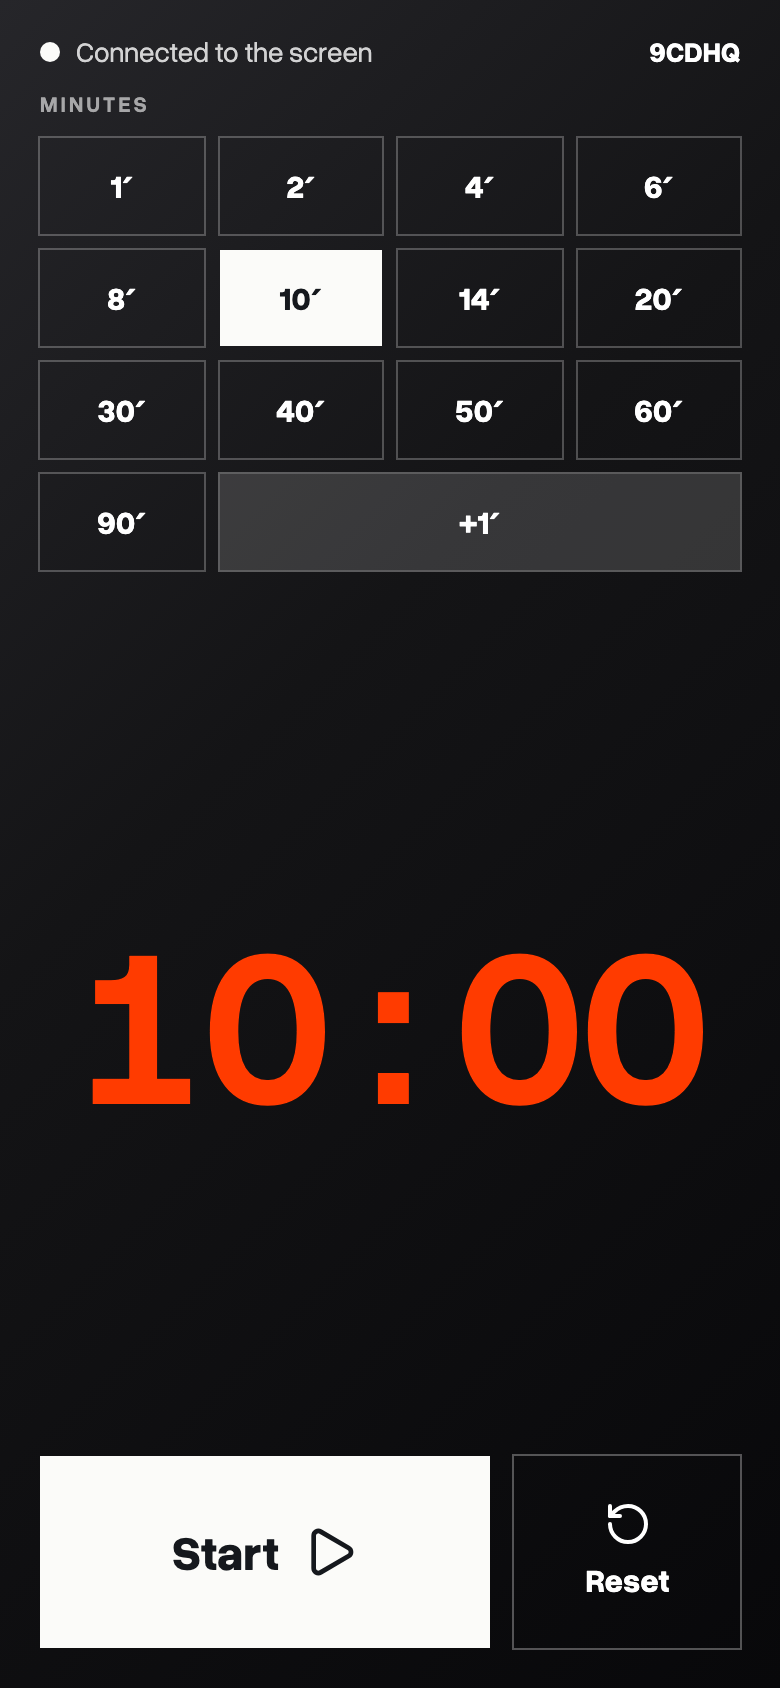
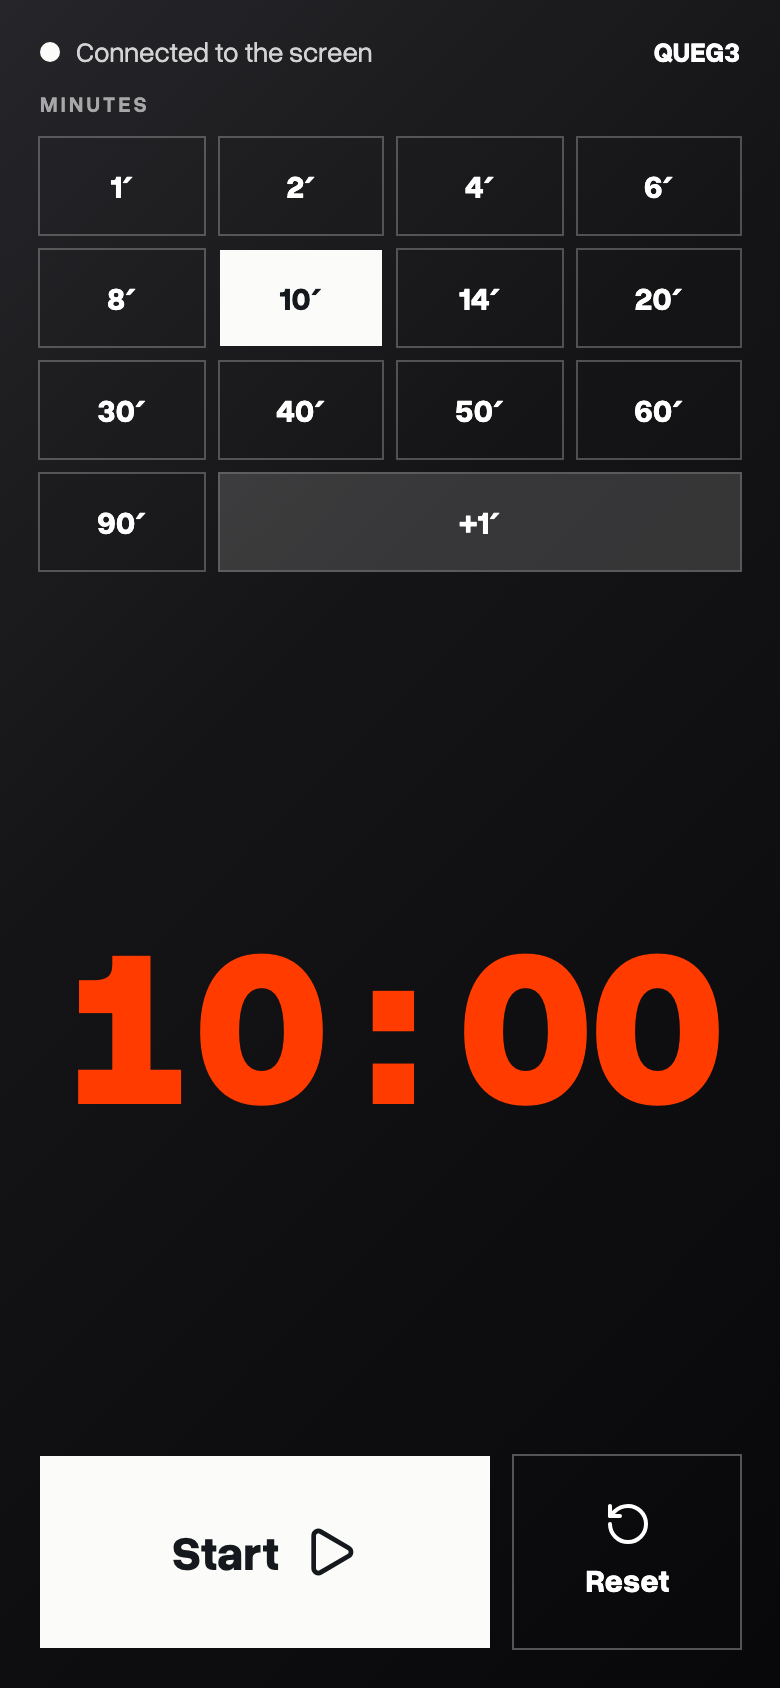
Re-shoot the README pictures for v2.7.0 (#21)
Seven pictures showed the 600-weight digits and the old field width. Taken at 1280x720, which is the bar's scale floor, the laptop view. The social card and the live-site picture are kept. Version 2.7.1.

diff --git a/src/lib/version.ts b/src/lib/version.ts
@@ -7,4 +7,4 @@
 // literal travels with the copy. Bump it with package.json, in the same commit
 // as the release's CHANGELOG entry; `npm run check:brands` fails if the three
 // disagree.
-export const TIMER_VERSION = "2.7.0"
+export const TIMER_VERSION = "2.7.1"

diff --git a/CHANGELOG.md b/CHANGELOG.md
@@ -8,6 +8,25 @@ one `git diff v1.0.0..v1.1.0`. Each entry has two parts:
   redo. See [`docs/DOWNSTREAM.md`](docs/DOWNSTREAM.md) for why each line is
   there.
 
+## v2.7.1 (2026-10-24)
+
+**In the room**
+
+- Nothing changes in the app. The README's pictures are re-shot from v2.7.0,
+  so they show what people actually see: heavier digits, and the countdown
+  field as wide as the key hints under it.
+
+**For hosts**
+
+- Re-shot: `docs/at-rest.png`, `controls.png`, `pairing.png`, `remote.png`,
+  `rebranded.png`, `finish.png`, `lengths.png`. Kept: `social-preview.png`
+  (it shows no readout and no bar, and is the copy uploaded to the repo's
+  settings) and `live-product-makers.png` (it shows a host's own deployment).
+- The desktop pictures are taken at 1280x720. Since v2.7.0 the bar scales with
+  viewport height, and 1280x720 sits on the scale's floor: the bar as it looks
+  on a laptop. On a taller screen it is bigger.
+- Code, CSS, props, dependencies: no change.
+
 ## v2.7.0 (2026-10-24)
 
 **This release changes the size of things on screen.** Nothing changes below
